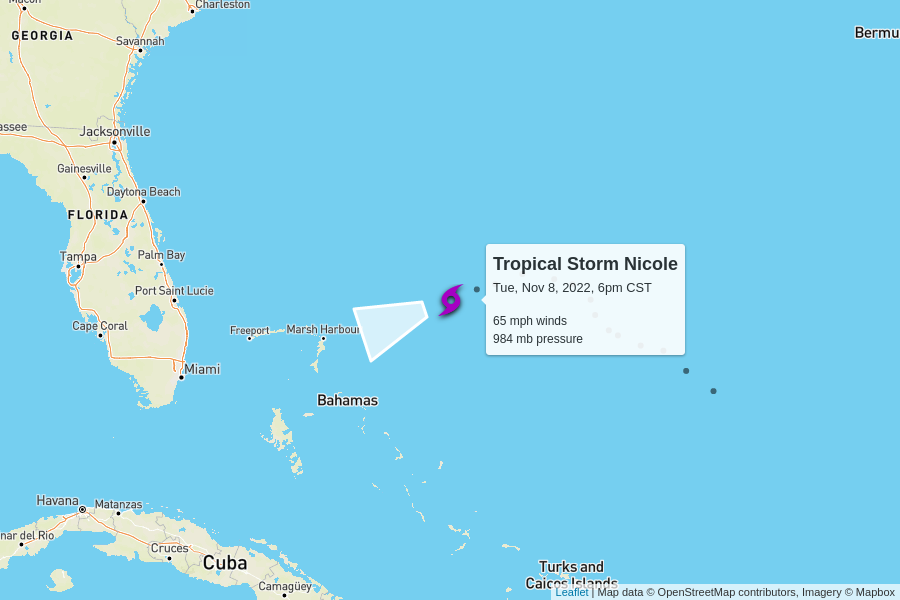
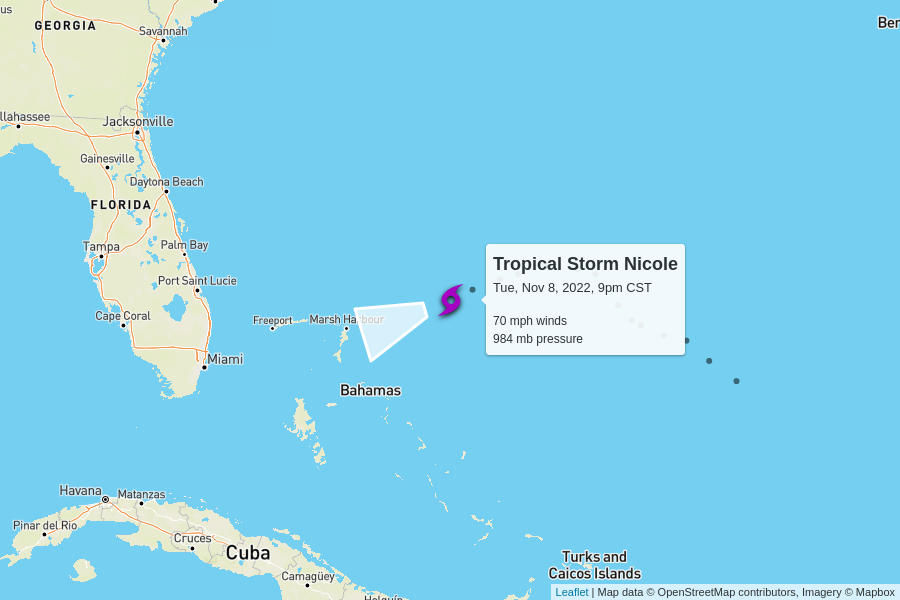
automatic update

diff --git a/docs/index.html b/docs/index.html
@@ -100,7 +100,7 @@
         <td colspan="6" class="storm category-0" >
           <h2>
             Tropical Storm Nicole
-            <p class="updated">last updated <span data-time>2022-11-09T00:00:00.000Z</span></p>
+            <p class="updated">last updated <span data-time>2022-11-09T03:00:00.000Z</span></p>
           </h2>
         </td>
       </tr>
@@ -115,7 +115,7 @@
       </tr>
       <tr>
         <td class="spacer"></td>
-        <td>65 mph</td>
+        <td>70 mph</td>
         <td>984 mb</td>
         <td>
           10 mph to the west-southwest
